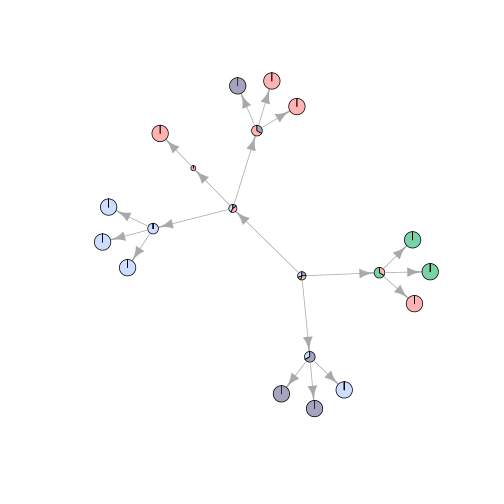
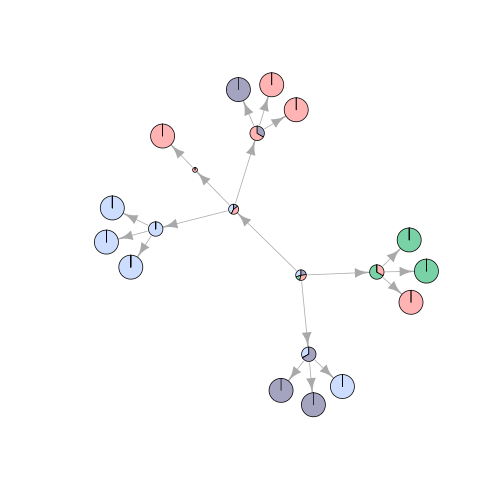
uopdating readme

diff --git a/README.md b/README.md
@@ -3,6 +3,7 @@
 [![codecov.io](https://codecov.io/github/thibautjombart/dibbler/coverage.svg?branch=master)](https://codecov.io/github/thibautjombart/dibbler?branch=master)
 
 
+knitr::opts_chunk$set(warning=FALSE)
 
 
 ```
@@ -94,11 +95,11 @@ A short demo
 ------------------
 Here is a short demonstration of the package using a dummy dataset.
 
+We first generate a labelled network using *igraph*:
+
 ```r
 library(igraph)
-library(dibbler)
 
-## GENERATE DATA
 set.seed(1)
 g1 <- make_tree(20, 3)
 
@@ -107,18 +108,141 @@ temp <- data.frame(lapply(
 igraph2data.frame(g1), as.character),
 stringsAsFactors=FALSE)
 g1 <- graph.data.frame(temp)
+```
 
-## find times
+Then we identify the 'tips' and generate draw cluster types from 4 clusters:
+
+```r
 tips <- which(degree(g1, mode="out")==0)
 grp <- factor(sample(letters[1:4], replace=TRUE, size=length(tips)))
 names(grp) <- tips
-
-
-## RUN DIBBLER
-out <- dibbler(dibbler.data(g1, grp))
 ```
 
-Checking and plotting the output:
+To run *dibbler*:
+
+```r
+out <- dibbler(dibbler.data(g1, grp), graph.opt=dibbler.graph.opt(max.size=15))
+out
+```
+
+```
+## $freq
+## $freq$`1`
+## 
+##      a      b      c      d 
+## 0.3077 0.1538 0.3077 0.2308 
+## 
+## $freq$`2`
+## 
+##      a      b      c      d 
+## 0.4286 0.0000 0.4286 0.1429 
+## 
+## $freq$`3`
+## 
+##      a      b      c      d 
+## 0.0000 0.6667 0.3333 0.0000 
+## 
+## $freq$`4`
+## 
+##      a      b      c      d 
+## 0.3333 0.0000 0.0000 0.6667 
+## 
+## $freq$`5`
+## 
+##      a      b      c      d 
+## 0.0000 0.0000 0.6667 0.3333 
+## 
+## $freq$`6`
+## 
+## a b c d 
+## 1 0 0 0 
+## 
+## $freq$`7`
+## 
+## a b c d 
+## 0 0 1 0 
+## 
+## $freq$`8`
+## 
+## a b c d 
+## 0 1 0 0 
+## 
+## $freq$`9`
+## 
+## a b c d 
+## 0 1 0 0 
+## 
+## $freq$`10`
+## 
+## a b c d 
+## 0 0 1 0 
+## 
+## $freq$`11`
+## 
+## a b c d 
+## 0 0 0 1 
+## 
+## $freq$`12`
+## 
+## a b c d 
+## 1 0 0 0 
+## 
+## $freq$`13`
+## 
+## a b c d 
+## 0 0 0 1 
+## 
+## $freq$`14`
+## 
+## a b c d 
+## 0 0 0 1 
+## 
+## $freq$`15`
+## 
+## a b c d 
+## 0 0 1 0 
+## 
+## $freq$`16`
+## 
+## a b c d 
+## 0 0 1 0 
+## 
+## $freq$`17`
+## 
+## a b c d 
+## 1 0 0 0 
+## 
+## $freq$`18`
+## 
+## a b c d 
+## 1 0 0 0 
+## 
+## $freq$`19`
+## 
+## a b c d 
+## 1 0 0 0 
+## 
+## $freq$`20`
+## 
+## a b c d 
+## 0 0 1 0 
+## 
+## 
+## $conf
+##      1      2      3      4      5      6      7      8      9     10 
+## 0.6500 0.6364 0.7500 0.7500 0.7500 0.7500 0.5000 1.0000 1.0000 1.0000 
+##     11     12     13     14     15     16     17     18     19     20 
+## 1.0000 1.0000 1.0000 1.0000 1.0000 1.0000 1.0000 1.0000 1.0000 1.0000 
+## 
+## $graph
+## IGRAPH DN-- 20 19 -- 
+## + attr: layout (g/n), name (v/c), shape (v/c), pie (v/x),
+## | pie.color (v/x), size (v/n), label.family (v/c), label.color
+## | (v/c)
+## + edges (vertex names):
+##  [1] 1->2  1->3  1->4  2->5  2->6  2->7  3->8  3->9  3->10 4->11 4->12
+## [12] 4->13 5->14 5->15 5->16 6->17 6->18 6->19 7->20
+```
 
 ```r
 plot(out$graph, vertex.label="")

diff --git a/vignettes/dibbler.md b/vignettes/dibbler.md
@@ -44,12 +44,12 @@ A short demo
 ------------------
 Here is a short demonstration of the package using a dummy dataset.
 
+We first generate a labelled network using *igraph*:
+
 
 ```r
 library(igraph)
-library(dibbler)
 
-## GENERATE DATA
 set.seed(1)
 g1 <- make_tree(20, 3)
 
@@ -58,23 +58,147 @@ temp <- data.frame(lapply(
 igraph2data.frame(g1), as.character),
 stringsAsFactors=FALSE)
 g1 <- graph.data.frame(temp)
+```
 
-## find times
+Then we identify the 'tips' and generate draw cluster types from 4 clusters:
+
+```r
 tips <- which(degree(g1, mode="out")==0)
 grp <- factor(sample(letters[1:4], replace=TRUE, size=length(tips)))
 names(grp) <- tips
-
-
-## RUN DIBBLER
-out <- dibbler(dibbler.data(g1, grp))
 ```
 
-Checking and plotting the output:
+To run *dibbler*:
+
+```r
+out <- dibbler(dibbler.data(g1, grp), graph.opt=dibbler.graph.opt(max.size=15))
+out
+```
+
+```
+## $freq
+## $freq$`1`
+## 
+##      a      b      c      d 
+## 0.3077 0.1538 0.3077 0.2308 
+## 
+## $freq$`2`
+## 
+##      a      b      c      d 
+## 0.4286 0.0000 0.4286 0.1429 
+## 
+## $freq$`3`
+## 
+##      a      b      c      d 
+## 0.0000 0.6667 0.3333 0.0000 
+## 
+## $freq$`4`
+## 
+##      a      b      c      d 
+## 0.3333 0.0000 0.0000 0.6667 
+## 
+## $freq$`5`
+## 
+##      a      b      c      d 
+## 0.0000 0.0000 0.6667 0.3333 
+## 
+## $freq$`6`
+## 
+## a b c d 
+## 1 0 0 0 
+## 
+## $freq$`7`
+## 
+## a b c d 
+## 0 0 1 0 
+## 
+## $freq$`8`
+## 
+## a b c d 
+## 0 1 0 0 
+## 
+## $freq$`9`
+## 
+## a b c d 
+## 0 1 0 0 
+## 
+## $freq$`10`
+## 
+## a b c d 
+## 0 0 1 0 
+## 
+## $freq$`11`
+## 
+## a b c d 
+## 0 0 0 1 
+## 
+## $freq$`12`
+## 
+## a b c d 
+## 1 0 0 0 
+## 
+## $freq$`13`
+## 
+## a b c d 
+## 0 0 0 1 
+## 
+## $freq$`14`
+## 
+## a b c d 
+## 0 0 0 1 
+## 
+## $freq$`15`
+## 
+## a b c d 
+## 0 0 1 0 
+## 
+## $freq$`16`
+## 
+## a b c d 
+## 0 0 1 0 
+## 
+## $freq$`17`
+## 
+## a b c d 
+## 1 0 0 0 
+## 
+## $freq$`18`
+## 
+## a b c d 
+## 1 0 0 0 
+## 
+## $freq$`19`
+## 
+## a b c d 
+## 1 0 0 0 
+## 
+## $freq$`20`
+## 
+## a b c d 
+## 0 0 1 0 
+## 
+## 
+## $conf
+##      1      2      3      4      5      6      7      8      9     10 
+## 0.6500 0.6364 0.7500 0.7500 0.7500 0.7500 0.5000 1.0000 1.0000 1.0000 
+##     11     12     13     14     15     16     17     18     19     20 
+## 1.0000 1.0000 1.0000 1.0000 1.0000 1.0000 1.0000 1.0000 1.0000 1.0000 
+## 
+## $graph
+## IGRAPH DN-- 20 19 -- 
+## + attr: layout (g/n), name (v/c), shape (v/c), pie (v/x),
+## | pie.color (v/x), size (v/n), label.family (v/c), label.color
+## | (v/c)
+## + edges (vertex names):
+##  [1] 1->2  1->3  1->4  2->5  2->6  2->7  3->8  3->9  3->10 4->11 4->12
+## [12] 4->13 5->14 5->15 5->16 6->17 6->18 6->19 7->20
+```
 
 ```r
 plot(out$graph, vertex.label="")
 ```
 
 ![plot of chunk dibbler](figs/dibbler-1.png)
+
 
 
